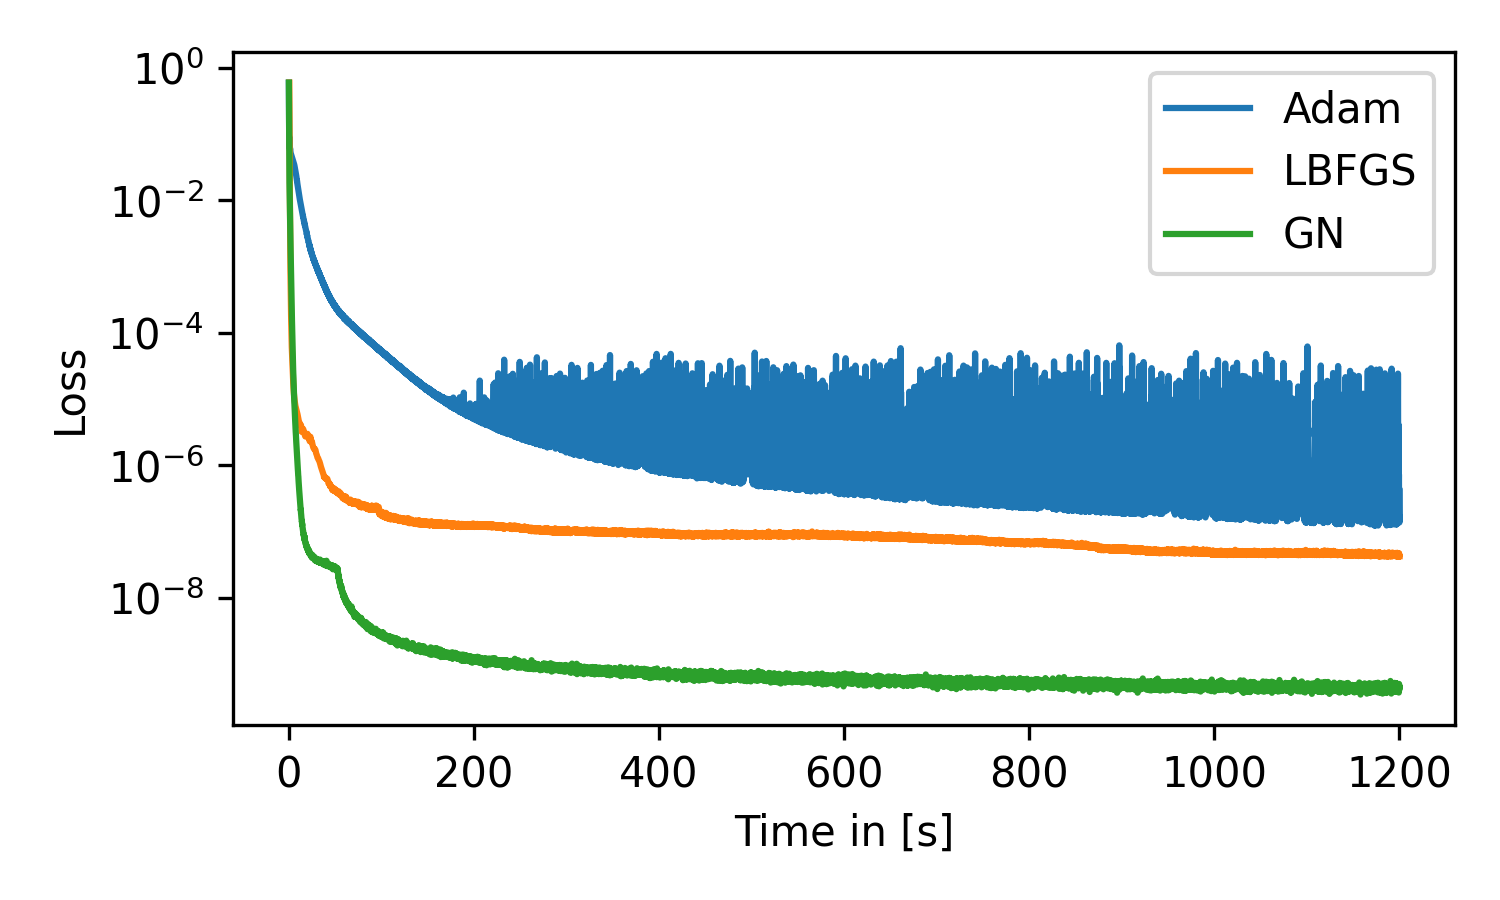
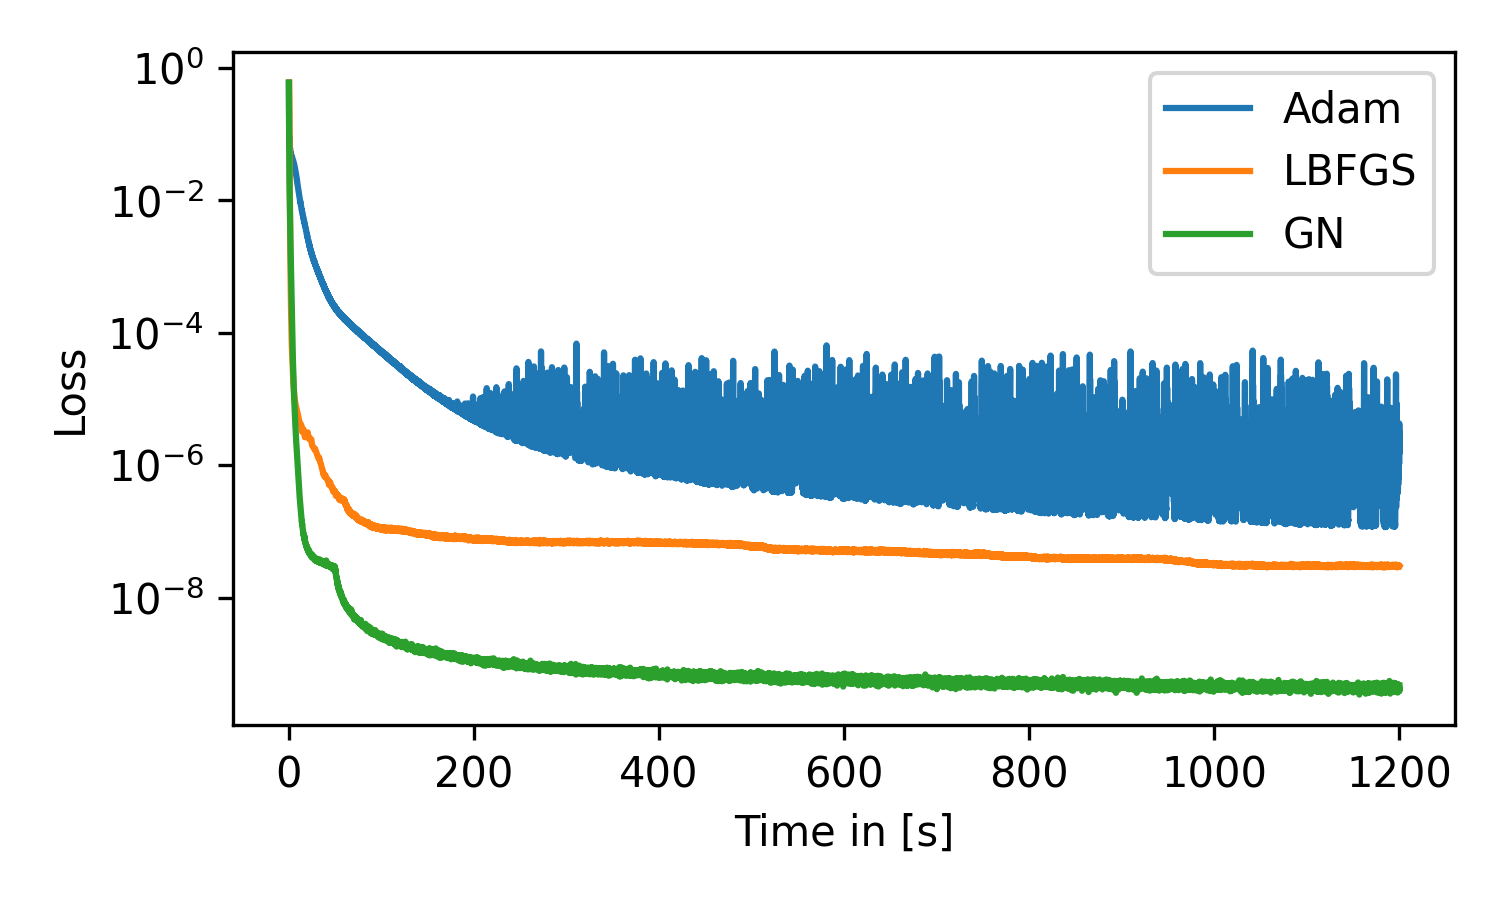
Update plots with LBFGS and switch off eikonal

diff --git a/experiments/tasks/curvature_task.py b/experiments/tasks/curvature_task.py
@@ -1,6 +1,6 @@
 """
 Shared setup of the minimal and developable surface problems (Sections 4.1 and 4.2): an interface loss on a
-prescribed boundary curve plus a curvature loss on the moving surface, with an eikonal term for the first 500 iterations.
+prescribed boundary curve plus a curvature loss on the moving surface, with an eikonal term for the first eikonal_off_time (50 s) of training time.
 Subclasses define the boundary, the true surface (exact distance, region of interest, area) and the figure settings.
 """
 
@@ -16,6 +16,7 @@ class CurvatureTask:
     curvature = "mean_curvature"  ## residual in training.residuals.ResidualLibrary, without the leading "_"
     ## Per optimizer: GN and Adam as for the paper figures; LBFGS chosen by an eikonal sweep (lower weights let it collapse f -> 0)
     eikonal_weights = {"gn": 1e-3, "adam": 1e-3, "lbfgs": 1e-3}
+    eikonal_off_time = 50.0       ## seconds of training time after which the eikonal weight is 0, the same for all optimizers
     eikonal_with_boundary = True  ## also enforce the eikonal equation on the boundary points
     refine_surface = False        ## Newton-refine the binary-search surface samples during training
     opt_defaults = {
@@ -58,9 +59,9 @@ class CurvatureTask:
             self.curvature:  ResidualTerm(getattr(res_lib, "_" + self.curvature), 1.0, self.pts_boundary, ),
         }
 
-    def update(self, res_terms, model, it, resample=True):
-        """Called before every optimizer step: loss weight schedule and surface resampling."""
-        if it == 500:
+    def update(self, res_terms, model, t, resample=True):
+        """Called before every optimizer step (t: training time in s): loss weight schedule and surface resampling."""
+        if t >= self.eikonal_off_time:
             res_terms["eikonal"].weight = 0.0
         if not resample:
             return

diff --git a/experiments/run.py b/experiments/run.py
@@ -150,7 +150,7 @@ def run(task_name, opt_name, seed=0, budget=600, eval_every=5, task_args={}, opt
             break
 
         clock.start()
-        update = lambda: task.update(res_terms, model, i, resample=not freeze_samples or i == 0)
+        update = lambda: task.update(res_terms, model, clock.elapsed, resample=not freeze_samples or i == 0)
         if resample_in_closure:
             unweighted_losses = train_step(optim, params, res_terms, update)
         else:

diff --git a/experiments/tasks/jeb.py b/experiments/tasks/jeb.py
@@ -145,7 +145,7 @@ class JEB:
         return distance_filter(pts, subsample(self.pts_interface_all, 8192), 0.04)
 
     @torch.no_grad()
-    def update(self, res_terms, model, it, resample=True):
+    def update(self, res_terms, model, t, resample=True):
         """Called before every optimizer step: new samples for all terms, as in the notebook."""
         if not resample:
             return

diff --git a/experiments/tasks/implicit_shape.py b/experiments/tasks/implicit_shape.py
@@ -83,7 +83,7 @@ class ImplicitShapeTask:
             "normal":  ResidualTerm(res_lib._normal,  1.0,                       self.pts, self.normals),
         }
 
-    def update(self, res_terms, model, it, resample=True):
+    def update(self, res_terms, model, t, resample=True):
         pass  ## no moving points
 
     @torch.no_grad()
